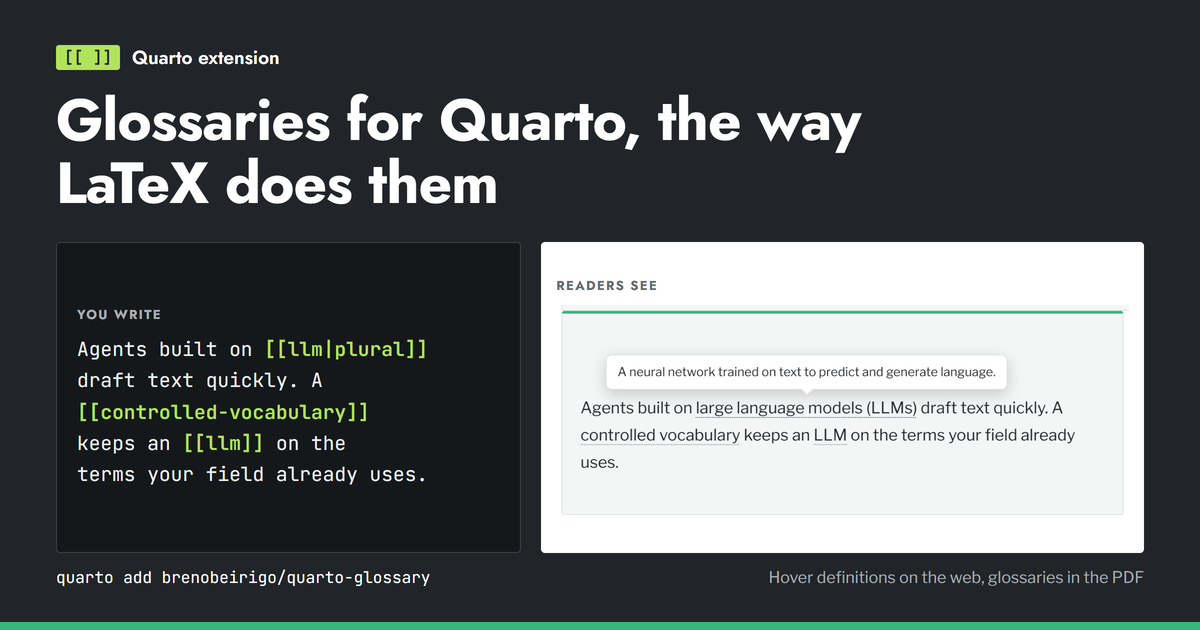
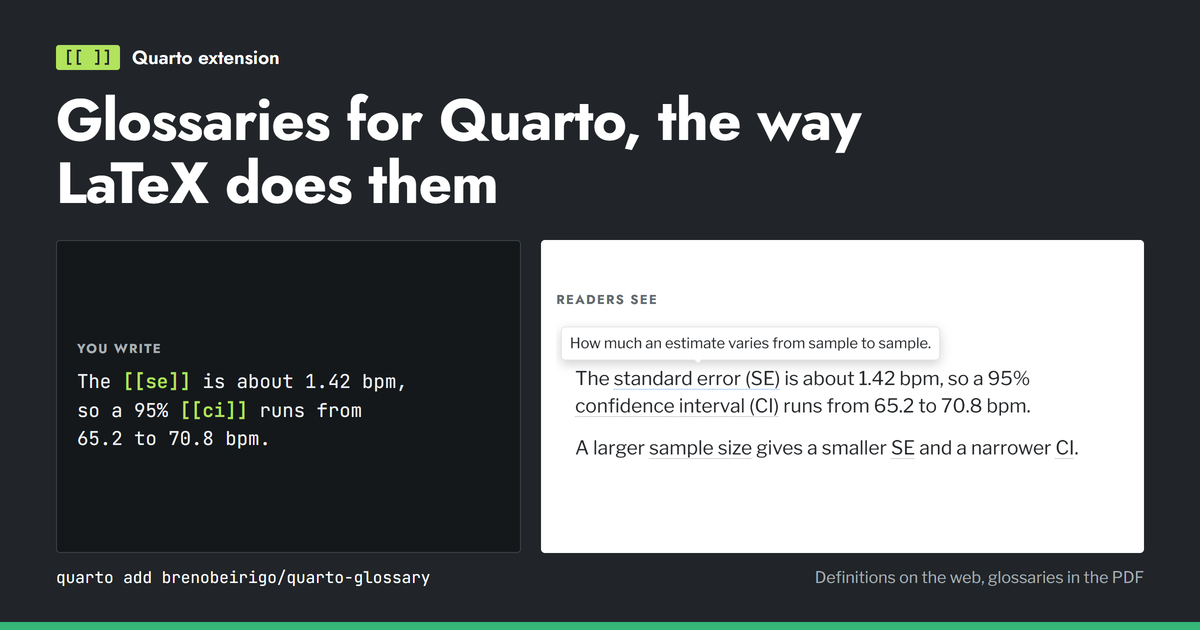
Lead with teaching and research, and state what the checks cover
The render checks [[key]] references, not plain prose, so stop implying it
keeps agents on a vocabulary. Open with reading and writing a lesson, add the
format limits and the pipe-table escape, and credit Obsidian accurately.

diff --git a/README.md b/README.md
@@ -6,8 +6,8 @@ Glossaries and acronym lists for Quarto, the way LaTeX's `glossaries` package
 does them. Write `[[key]]` in your text. Web readers get a definition balloon
 on hover, keyboard focus, or tap. The PDF gets native `\gls{key}` entries.
 The first use of an acronym expands it, later uses abbreviate it, and the
-lists at the end contain exactly the entries you cited. The `[[ ]]` syntax
-comes from [Obsidian's wikilinks](https://obsidian.md/help/links), including
+lists at the end contain exactly the entries you cited. The `[[ ]]` syntax is
+borrowed from [Obsidian's wikilinks](https://obsidian.md/help/links), including
 `[[key|other text]]` for display text.
 
 **[Manual, live demo, and comparison with other tools](https://brenobeirigo.github.io/quarto-glossary/)**
@@ -20,9 +20,8 @@ comes from [Obsidian's wikilinks](https://obsidian.md/help/links), including
   finger, and that callouts, tables, and captions cannot clip.
 - Separate Acronyms and Glossary lists, the same in HTML and PDF.
 - `glossaries-extra` or `glossaries`, with `noidx`, `makeindex`, or `bib2gls`.
-- Strict mode: unknown keys stop the render, all listed in one message with
-  file, line, and the nearest defined key. That keeps human and AI-agent
-  drafts on a fixed vocabulary.
+- Mistyped keys stop the render, all listed in one message with file, line,
+  and the nearest defined key.
 - No R, Python, or JavaScript dependencies. Requires Quarto 1.4 or newer.
 
 ## Install
@@ -113,7 +112,7 @@ covers the common cases.
 - [LaTeX output](https://brenobeirigo.github.io/quarto-glossary/latex-output.html):
   packages, `noidx`, `makeindex`, and `bib2gls` builds.
 - [Writing with agents](https://brenobeirigo.github.io/quarto-glossary/agents.html):
-  instructions to copy into `AGENTS.md` or `CLAUDE.md`.
+  what the vocabulary gives an agent, and what the render does not check.
 - [Configuration reference](https://brenobeirigo.github.io/quarto-glossary/reference.html):
   every option, field, and check.
 
